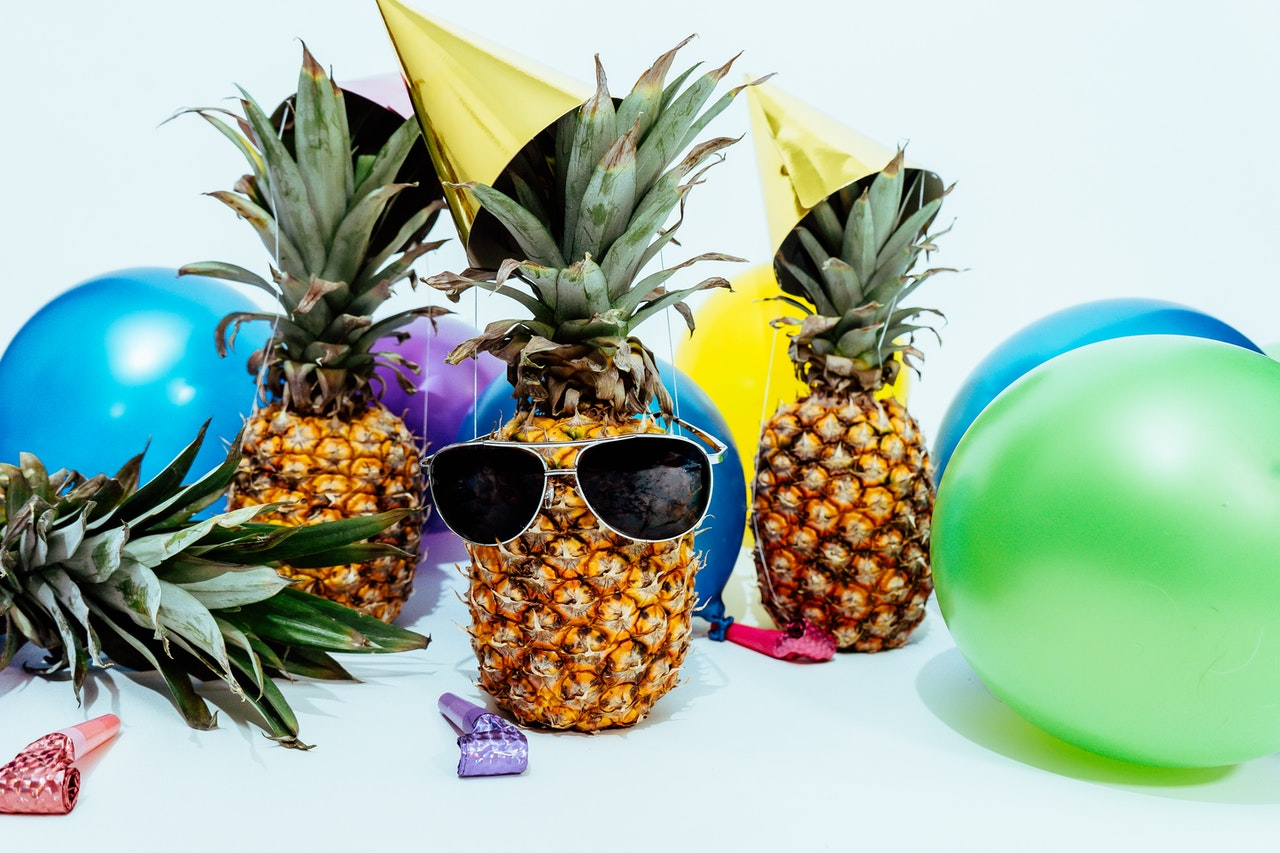
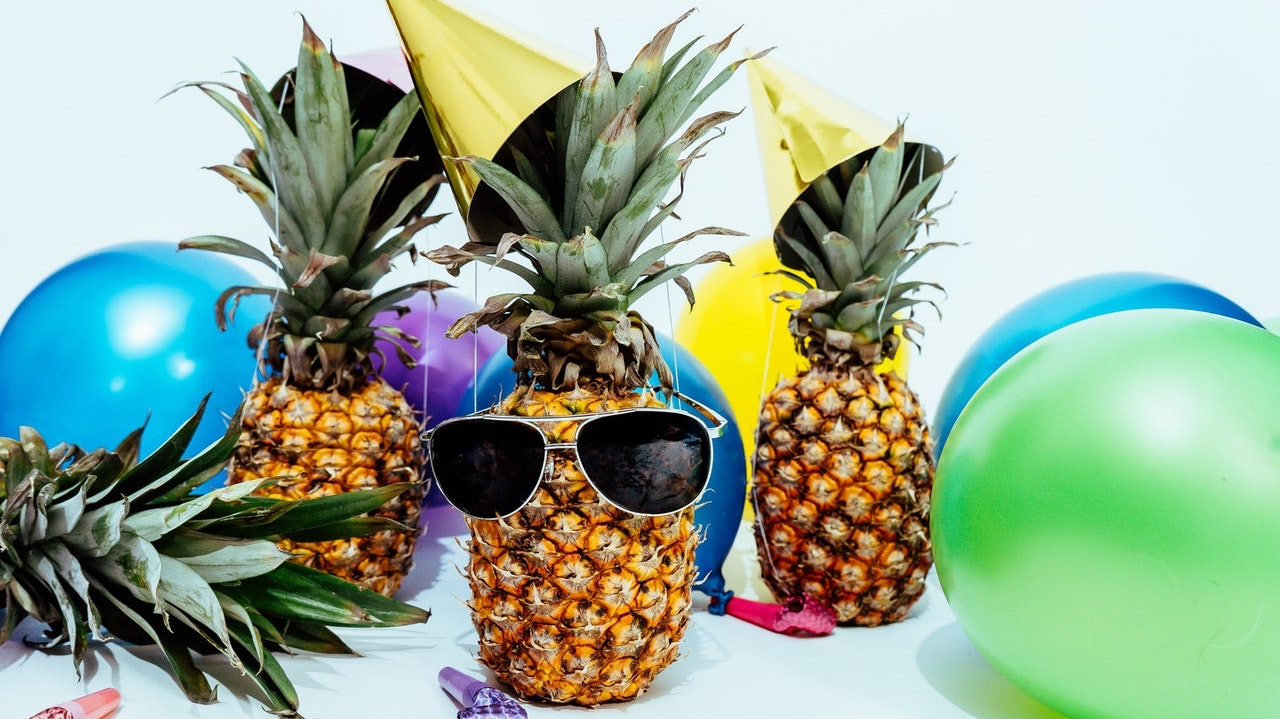
fixed project scaling

diff --git a/index.html b/index.html
@@ -67,39 +67,27 @@
 		<div class="projectContainer">
 			<div class="project">
 				<h3>Project 1</h3>
-				<div>
-					<img src="externalFiles/dog.jpg" alt="cute sausage dog"/>
-				</div>
+				<img src="externalFiles/dog.jpg" alt="cute sausage dog"/>
 			</div>
 			<div class="project">
 				<h3>Project 2</h3>
-				<div>
-					<img src="externalFiles/coffee.jpg" alt="coffee, cake and a laptop"/>
-				</div>
+				<img src="externalFiles/coffee.jpg" alt="coffee, cake and a laptop"/>
 			</div>
 			<div class="project">
 				<h3>Project 3</h3>
-				<div>
-					<img src="externalFiles/man-dealing-with-coding.jpg" alt="confused man"/>
-				</div>
+				<img src="externalFiles/man-dealing-with-coding.jpg" alt="confused man"/>
 			</div>
 			<div class="project">
 				<h3>Project 4</h3>
-				<div>
-					<img src="externalFiles/pineapple.jpg" alt="pineapples at a party"/>
-				</div>
+				<img src="externalFiles/pineapple.jpg" alt="pineapples at a party"/>
 			</div>
 			<div class="project">
 				<h3>Project 5</h3>
-				<div>
-					<img src="externalFiles/cosy.jpg" alt="person in blanket in front of fire with glass of red wine"/>
-				</div>
+				<img src="externalFiles/cosy.jpg" alt="person in blanket in front of fire with glass of red wine"/>
 			</div>
 			<div class="project">
 				<h3>Project 6</h3>
-				<div>
-					<img src="externalFiles/man-excited.jpg" alt="man excited at something on laptop"/>
-				</div>
+				<img src="externalFiles/man-excited.jpg" alt="man excited at something on laptop"/>
 			</div>
 		</div>
 	</section>

diff --git a/style.css b/style.css
@@ -216,16 +216,11 @@ footer p {
 	background-color: #F3F1F9;
 	border: 10px solid white ;
 	text-align: center;
-}
-
-.project h3 {
-	margin: 1rem 0 1rem 0;
-	padding: 0;
-	
+	display: flex;
+	flex-direction: column;
 }
 
 .project img {
-	height: 300px;
 	width: 100%;
 	object-fit: cover;
 }
@@ -235,11 +230,6 @@ footer p {
 	background-size: cover;
 }
 
-@media only screen and (max-width: 1500px) {
-	.project img {
-		height: 200px;
-	}
-}
 
 @media only screen and (max-width: 1000px) {
 	
@@ -282,9 +272,6 @@ footer p {
 		width: 90%;
 		height: 90%;
 	}
-	.project img {
-		height: 500px;
-	}
 
 }
 
@@ -304,9 +291,6 @@ footer p {
 	.container {
 		padding-top: 126px;
 	}
-	.project img {
-		height: 300px;
-	}
-	
+
 
 }
